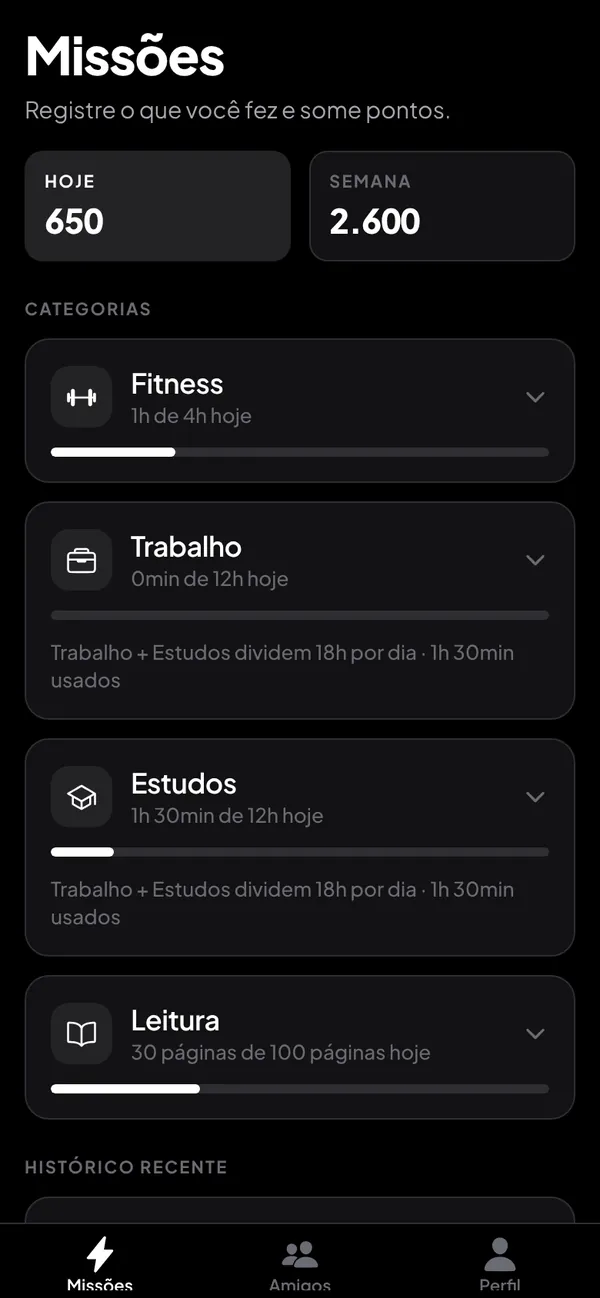
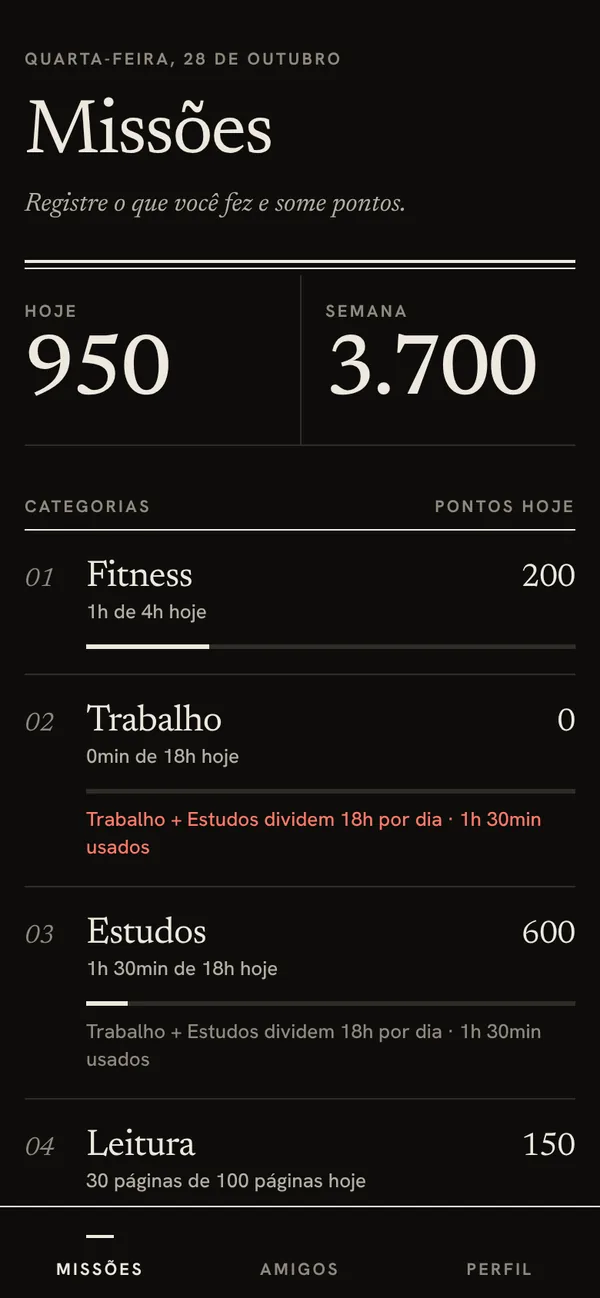
feat: telas novas do LifeMaxxing e cargo atualizado

diff --git a/src/app/portfolio.data.ts b/src/app/portfolio.data.ts
@@ -246,6 +246,7 @@ export const FEATURED: Project = {
   highlights: [
     'Regra única de pontuação: uma hora de esforço vale 200 pontos em qualquer categoria, então o ranking mede dedicação e não a escolha da categoria.',
     'Os pontos são calculados no Postgres e nunca aceitos do app. Cada registro tem dono garantido pelo servidor, com tetos diários por categoria.',
+    'Timer de estudo e de trabalho que vale o dobro, com início e fim carimbados pelo relógio do banco para não dar para burlar.',
     'Row Level Security em todas as tabelas: ninguém lê o histórico de ninguém, e o ranking devolve só somas.',
     'Mais de 100 testes de segurança rodando contra o banco, inclusive em Postgres WebAssembly para funcionar no Windows.',
   ],
@@ -255,18 +256,23 @@ export const FEATURED: Project = {
     slides: [
       {
         src: 'projetos/lifemaxxing-missoes.webp',
-        alt: 'Tela Missões do LifeMaxxing com pontos do dia e da semana e as quatro categorias',
-        caption: 'Missões: pontos do dia e da semana, com o progresso de cada categoria contra o teto diário.',
+        alt: 'Tela Missões do LifeMaxxing com os pontos de hoje e da semana e as categorias numeradas',
+        caption: 'Missões: pontos de hoje e da semana, e o progresso de cada categoria contra o teto diário.',
       },
       {
         src: 'projetos/lifemaxxing-registrar.webp',
-        alt: 'Categoria Fitness aberta com atalhos de 30 minutos a 2 horas e o botão Registrar missão',
-        caption: 'Registrar uma missão: o app mostra quanto ela vale antes de enviar, mas quem calcula é o servidor.',
+        alt: 'Categoria Estudos aberta com o timer e a lista de disciplinas, cada uma com o botão Ligar',
+        caption: 'Estudos por disciplina: dá para ligar o timer em Cálculo, Física ou outra matéria, ou registrar manualmente.',
+      },
+      {
+        src: 'projetos/lifemaxxing-timer.webp',
+        alt: 'Timer ligado estudando Circuitos Lógicos, com o tempo corrido e os pontos acumulados até agora',
+        caption: 'Timer ligado: o tempo cronometrado vale o dobro de pontos, com início e fim carimbados pelo servidor.',
       },
       {
         src: 'projetos/lifemaxxing-historico.webp',
-        alt: 'Histórico recente de missões com os pontos ganhos em cada uma',
-        caption: 'Histórico: cada registro com a quantidade e os pontos que rendeu.',
+        alt: 'Histórico recente com cada missão, a disciplina, o horário e os pontos ganhos',
+        caption: 'Histórico: cada registro com a disciplina, se foi com timer e quantos pontos rendeu.',
       },
       {
         src: 'projetos/lifemaxxing-amigos.webp',
@@ -275,8 +281,13 @@ export const FEATURED: Project = {
       },
       {
         src: 'projetos/lifemaxxing-perfil.webp',
-        alt: 'Perfil com avatar, @ do usuário e pontuação por período',
-        caption: 'Perfil: @ personalizado, avatar de um catálogo fechado e pontuação por período.',
+        alt: 'Perfil com avatar, @ do usuário, pontuação por período e tempo estudado',
+        caption: 'Perfil: @ personalizado, pontuação por período e o tempo total de estudo.',
+      },
+      {
+        src: 'projetos/lifemaxxing-disciplinas.webp',
+        alt: 'Tempo estudado por disciplina nos últimos 7 dias, com barras de porcentagem',
+        caption: 'Quanto tempo foi para cada disciplina, em 24 horas, 7 dias, 30 dias ou desde o começo.',
       },
       {
         src: 'projetos/lifemaxxing-escuro.webp',
@@ -495,7 +506,7 @@ class Rogerio:
     cidade: str = "Rio de Janeiro, RJ"
     graduacao: str = "Eng. de Computação e Informação, UFRJ"
     tecnico: str = "Informática para Internet, FAETEC"
-    cargo: str = "Dev & QA na Vivier (NinjaZap)"
+    cargo: str = "Estagiário em Desenvolvimento de Software e IA"
     linguagens: tuple = ("TypeScript", "Python", "C", "SQL")
     frameworks: tuple = ("Angular", "React Native", "Node.js")
     testes: tuple = ("Cypress", "Cucumber", "Jenkins")
